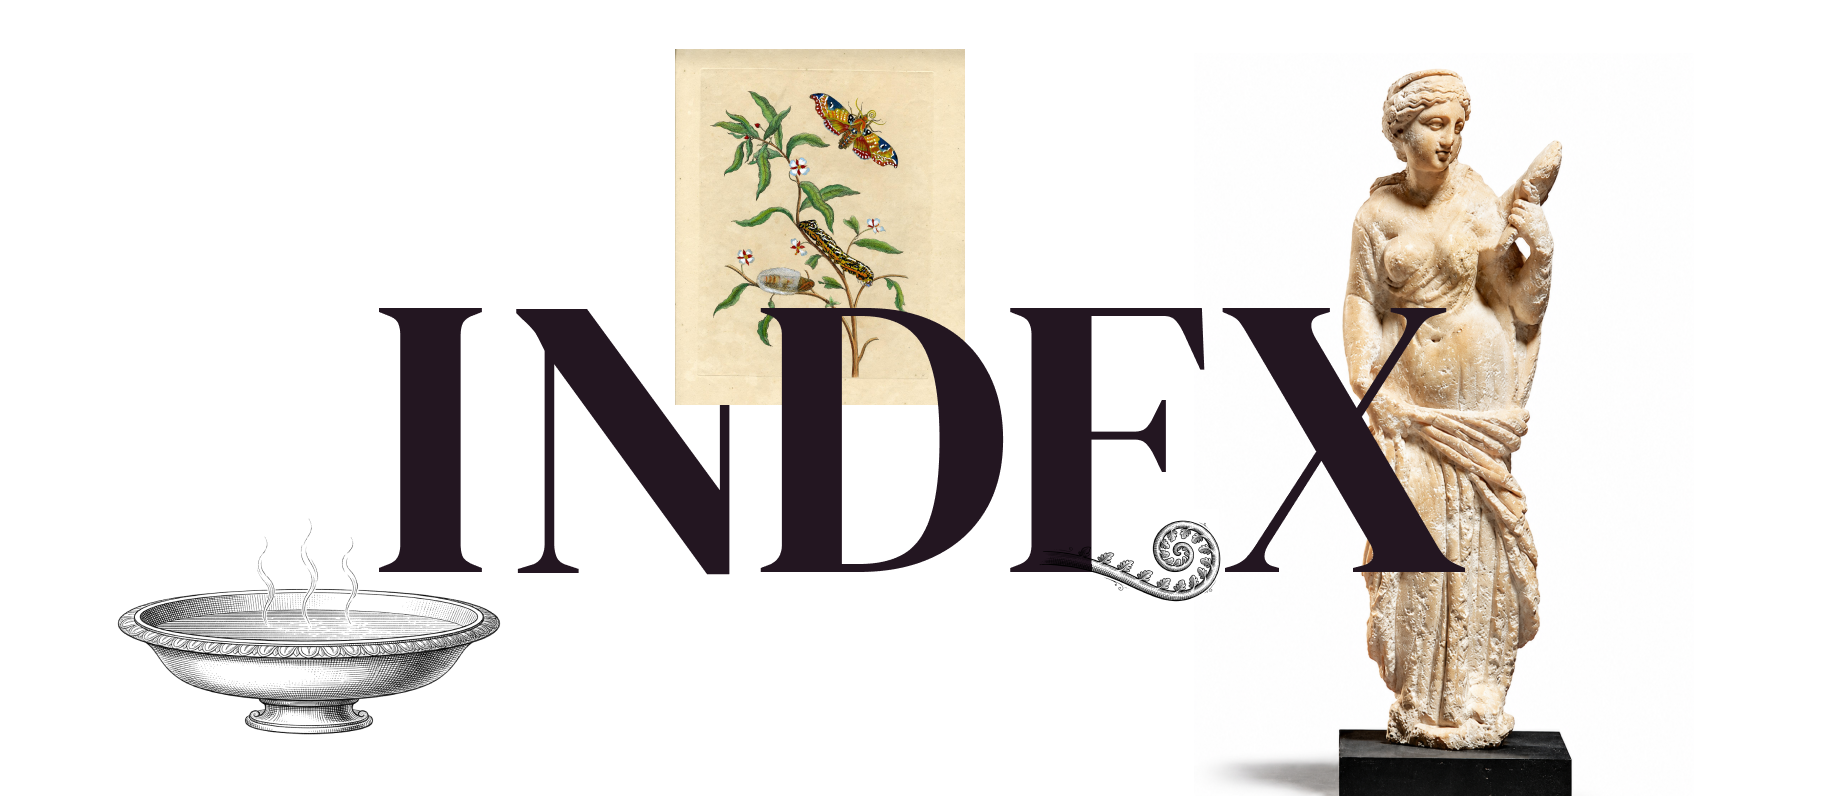
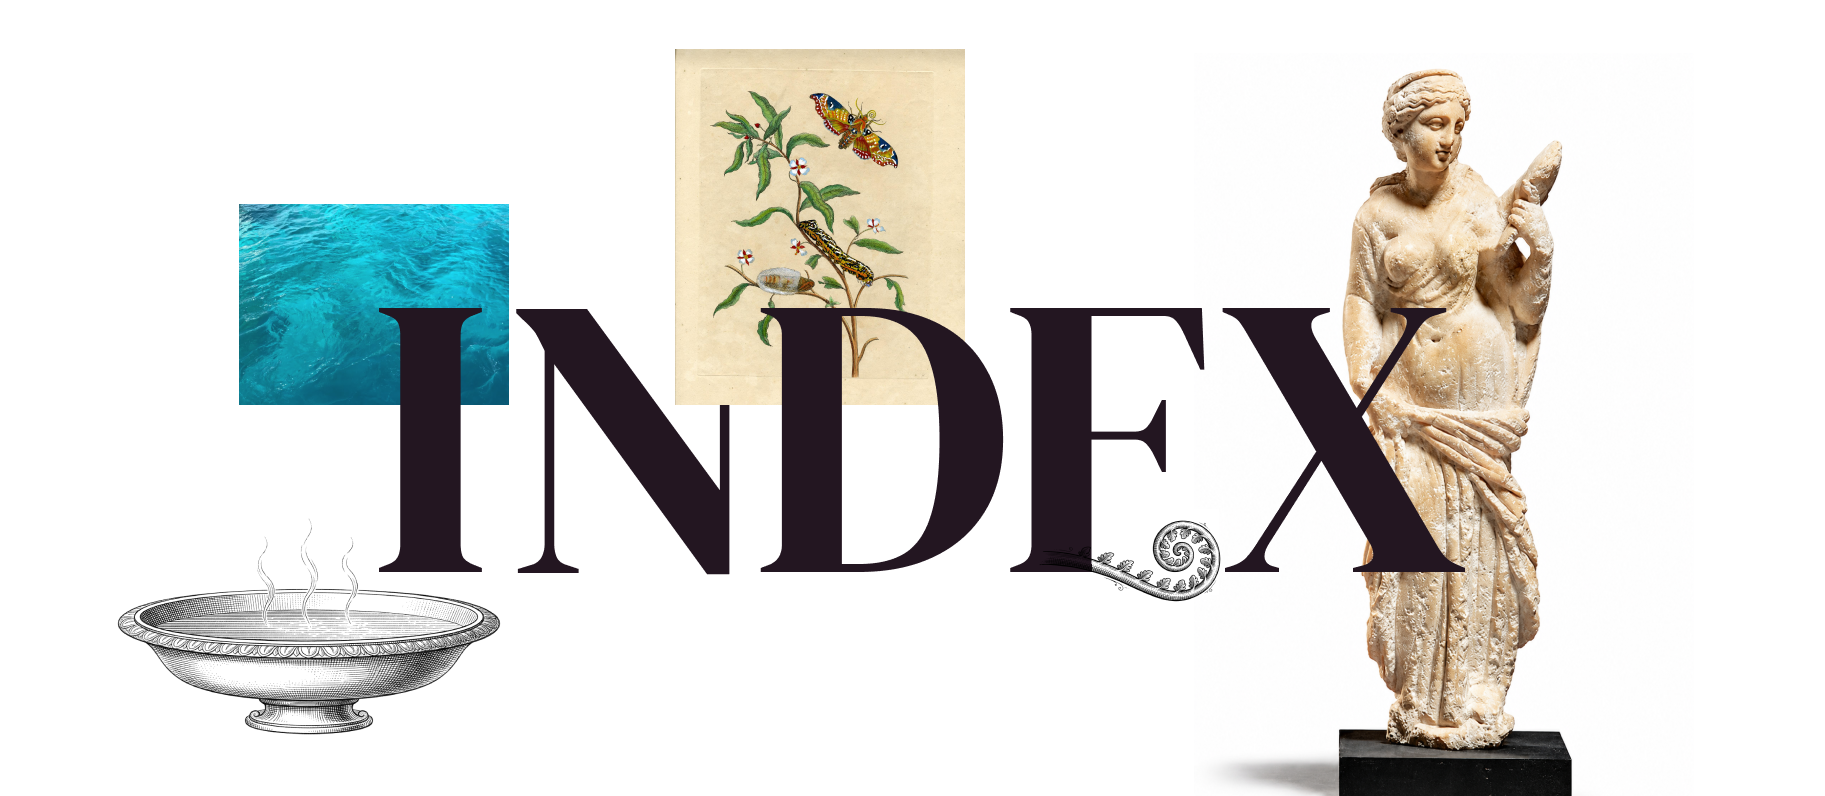
Refine treatment index hero

Changed region(s): [[0.1249, 0.2412, 0.2811, 0.5126]]

diff --git a/src/app/treatments/treatments.module.css b/src/app/treatments/treatments.module.css
@@ -21,7 +21,7 @@
 }
 
 .heroImage {
-  padding: clamp(104px, 8vw, 132px) clamp(24px, 5vw, 72px) clamp(24px, 4vw, 52px);
+  padding: clamp(110px, 8vw, 136px) clamp(40px, 6vw, 88px) clamp(148px, 13vw, 176px);
   object-fit: contain;
   object-position: center;
 }
@@ -38,7 +38,25 @@
   border: 0;
 }
 
-.kicker,
+.heroCopy {
+  position: absolute;
+  right: clamp(22px, 5vw, 72px);
+  bottom: clamp(28px, 3vw, 42px);
+  left: clamp(22px, 5vw, 72px);
+  z-index: 1;
+  display: grid;
+  justify-items: center;
+  text-align: center;
+}
+
+.heroKicker {
+  margin: 0;
+  font-family: var(--font-dm-serif-display), Georgia, serif;
+  font-size: clamp(20px, 2.1vw, 28px);
+  font-weight: 400;
+  line-height: 1.2;
+}
+
 .chapterKicker {
   margin: 0;
   font-family: var(--font-geist-sans), ui-sans-serif, system-ui, sans-serif;
@@ -60,12 +78,12 @@
 }
 
 .mastheadDek {
-  max-width: 720px;
-  margin: clamp(26px, 3.4vw, 38px) 0 0;
+  max-width: 920px;
+  margin: 10px 0 0;
   color: rgba(30, 26, 15, 0.68);
   font-family: var(--font-dm-serif-text), Georgia, serif;
-  font-size: clamp(17px, 1.6vw, 20px);
-  line-height: 1.55;
+  font-size: clamp(15px, 1.45vw, 19px);
+  line-height: 1.45;
 }
 
 .categoryList {
@@ -219,11 +237,21 @@
 
 @media (max-width: 680px) {
   .masthead {
-    height: max(380px, 82vw);
+    height: max(500px, 118vw);
   }
 
   .heroImage {
-    padding: 126px 12px 24px;
+    padding: 126px 18px 166px;
+  }
+
+  .heroCopy {
+    right: 18px;
+    bottom: 30px;
+    left: 18px;
+  }
+
+  .heroKicker {
+    font-size: 20px;
   }
 
   .index {
@@ -237,7 +265,7 @@
 
   .mastheadDek {
     max-width: 38ch;
-    font-size: 17px;
+    font-size: 15px;
   }
 
   .categoryList {

diff --git a/src/app/treatments/page.tsx b/src/app/treatments/page.tsx
@@ -85,12 +85,12 @@ export default async function TreatmentsPage() {
           unoptimized
           sizes="100vw"
         />
-        <div className={styles.visuallyHidden}>
-          <p className={styles.kicker}>A catalogue of the longevity arts</p>
-          <h1>The Fountain Index</h1>
+        <h1 className={styles.visuallyHidden}>The Fountain Index</h1>
+        <div className={styles.heroCopy}>
+          <p className={styles.heroKicker}>A Catalogue of the Longevity Arts</p>
           <p className={styles.mastheadDek}>
             Everything you can presently do for a longer life — {hubs.length.toLocaleString()} treatments across{" "}
-            {clinicCount.toLocaleString()} clinics in {cityCount.toLocaleString()} cities. Continuously compiled.
+            {clinicCount.toLocaleString()} clinics in {cityCount.toLocaleString()} cities.
           </p>
         </div>
       </header>
